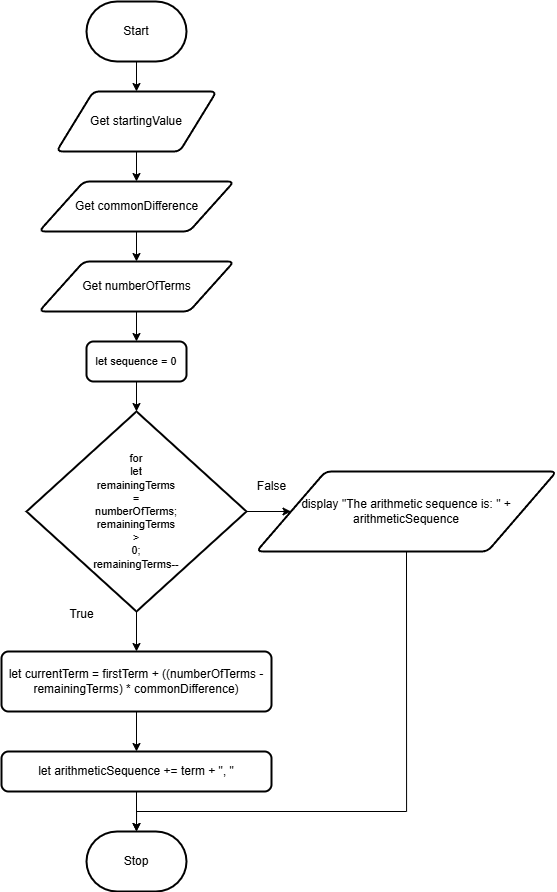
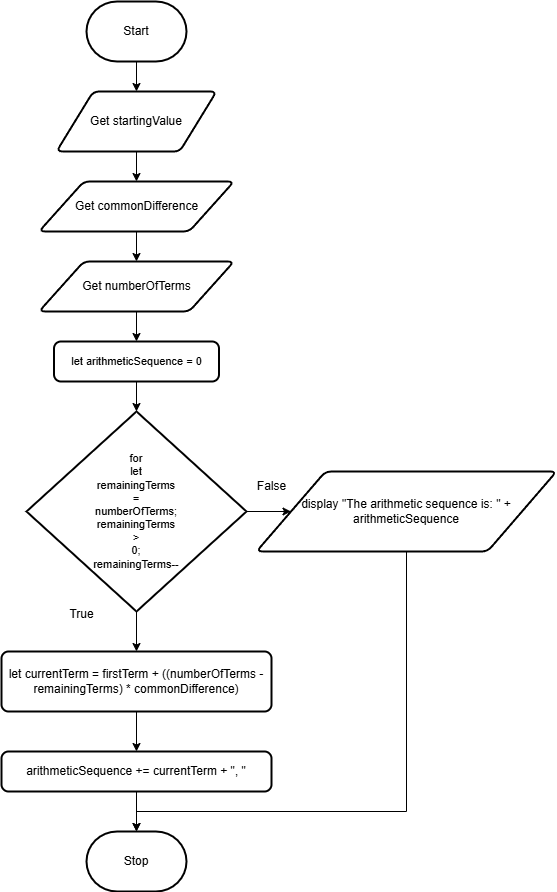
created program for arithmetic sequences

Changed region(s): [[0.0916, 0.3632, 0.3968, 0.454], [0.061, 0.8475, 0.4273, 0.8778]]

diff --git a/index.html b/index.html
@@ -1,9 +1,87 @@
 <!DOCTYPE html>
-<html>
-  <head>
-    <title>Title</title>
-  </head>
-  <body>
-    <p>Paragraph</p>
-  </body>
+<!-- ICS2O-Assignment-5-JS -->
+<html lang="en-ca">
+
+
+<head>
+  <meta charset="utf-8" />
+  <meta name="description" content="Arithmetic Sequence, in JavaScript" />
+  <meta name="keywords" content="mths, icd2o" />
+  <meta name="author" content="Bain Liao" />
+  <meta name="viewport" content="width=device-width, initial-scale=1.0" />
+  <link rel="stylesheet" href="https://fonts.googleapis.com/icon?family=Material+Icons" />
+  <link rel="stylesheet" href="https://code.getmdl.io/1.3.0/material.light_blue-orange.min.css" />
+  <link rel="stylesheet" href="./css/style.css" />
+  <link rel="apple-touch-icon" sizes="180x180" href="./apple-touch-icon.png" />
+  <link rel="icon" type="image/png" sizes="32x32" href="./favicon-32x32.png" />
+  <link rel="icon" type="image/png" sizes="16x16" href="./favicon-16x16.png" />
+  <link rel="manifest" href="./site.webmanifest" />
+  <title>Arithmetic Sequence, in JavaScript</title>
+</head>
+
+
+<body>
+  <script defer src="https://code.getmdl.io/1.3.0/material.min.js"></script>
+  <script src="./js/script.js"></script>
+  <div class="mdl-layout mdl-js-layout mdl-layout--fixed-header">
+    <header class="mdl-layout__header">
+      <div class="mdl-layout__header-row">
+        <span class="mdl-layout-title">Arithmetic Sequence, in JavaScript</span>
+      </div>
+    </header>
+    <main class="mdl-layout__content">
+      <div class="right-image">
+        <img src="./images/sequence_formula.png" alt="Formula" />
+      </div>
+      <div class="page-content">Please enter in the starting value, the common difference, and how many terms it should generate:</div>
+      <br />
+      <!-- Simple Textfield for integers-->
+      <form action="#">
+        <span>Starting Value:</span>
+        <div class="mdl-textfield mdl-js-textfield">
+          <!-- input pattern attribute -->
+          <input class="mdl-textfield__input" type="text" pattern="-?[0-9]*(\.[0-9]+)?" id="starting-value" />
+          <!-- mdl-textfield__label -->
+          <label class="mdl-textfield__label" for="demo-input">Starting value...</label>
+          <!-- class "mdl-textfield__error" -->
+          <span class="mdl-textfield__error">Input is not a number</span>
+        </div>
+        <br />
+        <span>Common Difference:</span>
+        <!-- Simple Textfield for integers-->
+        <div class="mdl-textfield mdl-js-textfield">
+          <!-- input pattern attribute -->
+          <input class="mdl-textfield__input" type="text" pattern="-?[0-9]*(\.[0-9]+)?" id="common-difference" />
+          <!-- mdl-textfield__label -->
+          <label class="mdl-textfield__label" for="demo-input">Common difference...</label>
+          <!-- class "mdl-textfield__error" -->
+          <span class="mdl-textfield__error">Input is not a number</span>
+        </div>
+        <br />
+        <span>Number of Terms:</span>
+        <!-- Simple Textfield for integers-->
+        <div class="mdl-textfield mdl-js-textfield">
+          <!-- input pattern attribute -->
+          <input class="mdl-textfield__input" type="text" pattern="-?[0-9]*(\.[0-9]+)?" id="number-of-terms" />
+          <!-- mdl-textfield__label -->
+          <label class="mdl-textfield__label" for="demo-input">Number of terms...</label>
+          <!-- class "mdl-textfield__error" -->
+          <span class="mdl-textfield__error">Input is not a number</span>
+        </div>
+        <br />
+        <!-- Accent-colored raised button with ripple -->
+        <button class="mdl-button mdl-js-button mdl-button--raised mdl-js-ripple-effect mdl-button--accent"
+          onclick="calculateArithmeticSequence()" type="button">
+          Calculate
+        </button>
+      </form>
+      <br />
+      <div class="page-content">
+        <div id="result"></div>
+      </div>
+    </main>
+  </div>
+</body>
+
+
 </html>

diff --git a/js/script.js b/js/script.js
@@ -1,5 +1,28 @@
 // Copyright (c) 2020 Mr. Coxall All rights reserved
 //
-// Created by: Mr. Coxall
-// Created on: Sep 2020
+// Created by: Bain Liao
+// Created on: May 2025
 // This file contains the JS functions for index.html
+
+"use strict"
+
+/**
+* This function calculates the arithmetic sequence.
+*/
+function calculateArithmeticSequence() {
+  // User input
+  const startingValue = parseInt(document.getElementById("starting-value").value)
+  const commonDifference = parseInt(document.getElementById("common-difference").value)
+  const numberOfTerms = parseInt(document.getElementById("number-of-terms").value)
+  
+  let arithmeticSequence = ""
+  
+  // Process
+  for (let remainingTerms = numberOfTerms; remainingTerms > 0; remainingTerms--) {
+    let currentTerm = startingValue + ((numberOfTerms - remainingTerms) * commonDifference)
+    arithmeticSequence += currentTerm + ", "
+  }
+  
+  // Output
+  document.getElementById("result").innerText = "The arithmetic sequence is: " + arithmeticSequence
+}
